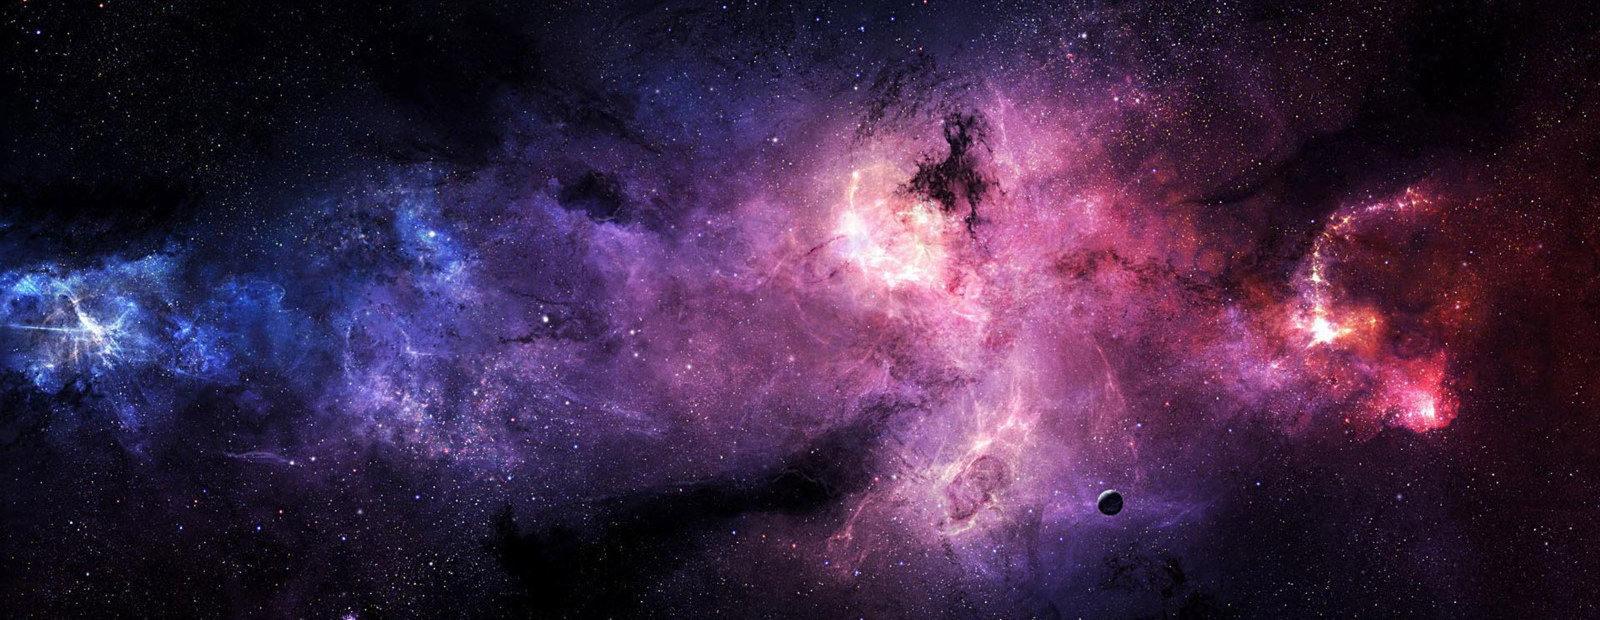
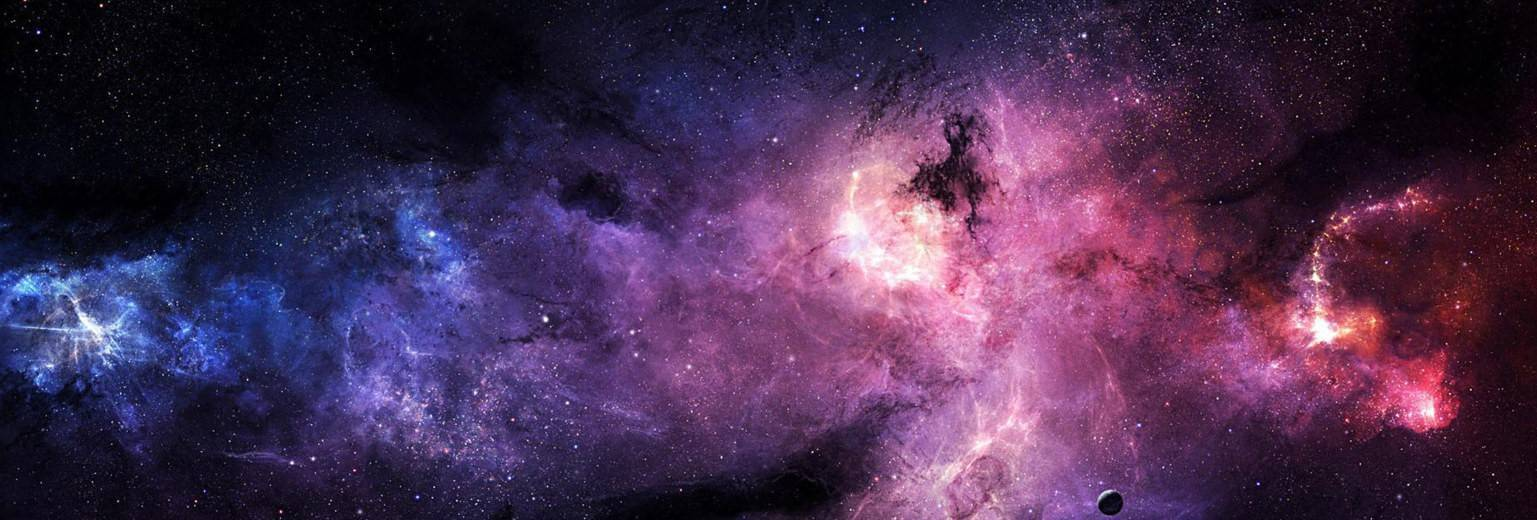
firefox fixed

diff --git a/index.html b/index.html
@@ -1,7 +1,7 @@
 ---
 layout: page
 description: "随便写一点东西的地方"
-header-img: "img/home-bg.webp"
+header-img: "img/home-bg.jpg"
 ---
 
 {% for post in paginator.posts %}
